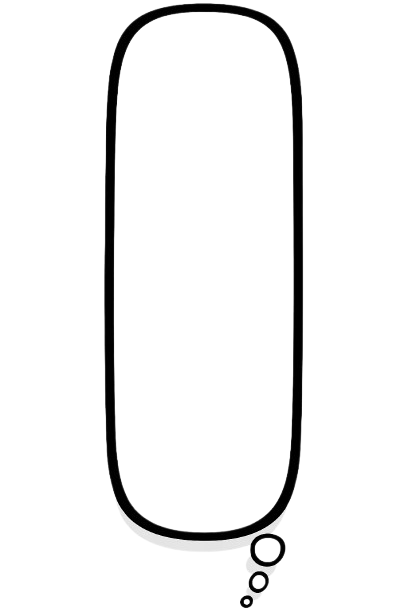
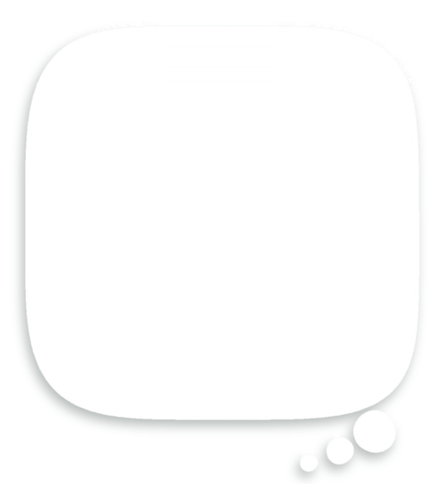
Order bubble: the G1 glass bubble, compact (foods 0.82 apart, same food size), sideways trail, sitting right over the head (owner: ship it). Sprites at 200 ppu drawn at scale 1, placed by OrderSystem.PlaceGlassBubble; foods centred by their drawn part; think-dot insides updated

diff --git a/Assets/Scripts/ItemsAndOrders/OrderSystem.cs b/Assets/Scripts/ItemsAndOrders/OrderSystem.cs
@@ -235,6 +235,7 @@ public class OrderSystem : MonoBehaviour
         if (speechBubble2 != null) speechBubble2.transform.SetParent(s0.root, true);
         if (speechBubble4 != null) speechBubble4.transform.SetParent(s0.root, true);
         if (orderContainer != null) orderContainer.SetParent(s0.root, true);
+        foreach (var b in new[] { speechBubble1, speechBubble2, speechBubble4 }) PlaceGlassBubble(b);
         s0.bubble1 = speechBubble1; s0.bubble2 = speechBubble2; s0.bubble4 = speechBubble4; s0.container = orderContainer;
 
         var s1 = new SlotVisuals { root = new GameObject("OrderSlot1").transform };
@@ -253,6 +254,34 @@ public class OrderSystem : MonoBehaviour
         }
         slots = new[] { s0, s1 };
     }
+
+    /// The G1 glass bubbles (owner, 26 November 2026: "use G1 ... make it more compact, so we can resize the bubble to be
+    /// smaller, but don't change the items image size"; then "the trail under each bubble ... wrap it more horizontal so it
+    /// takes less height, then move bubble closer to the customer"; "order bubbles look good, ship it"). The pictures
+    /// (Assets/Images/1bubble, bubble2, bubble3; painted by Store/bubble_2026-11-26/paint_compact.py ROUND=2) are 200 pixels
+    /// per unit and drawn at scale 1; the body's middle is 0.095 above the picture's middle and sits on the middle of the
+    /// foods (one food every 0.82, itemSpacing in the scene). In the bubble root's space.
+    private static readonly Dictionary<string, Vector3> GlassBubbleSpot = new Dictionary<string, Vector3>
+    {
+        { "1bubble", new Vector3(-1.05f, 2.605f, 0f) }, { "bubble2", new Vector3(-1.05f, 2.195f, 0f) }, { "bubble3", new Vector3(-1.15f, 2.195f, 0f) }
+    };
+    private static void PlaceGlassBubble(GameObject bubble)
+    {
+        var sr = bubble != null ? bubble.GetComponent<SpriteRenderer>() : null;
+        if (sr == null || sr.sprite == null || !GlassBubbleSpot.TryGetValue(sr.sprite.name, out var at)) return;
+        var z = bubble.transform.localPosition.z;
+        bubble.transform.localPosition = new Vector3(at.x, at.y, z);
+        bubble.transform.localScale = Vector3.one;
+        sr.color = Color.white;   // the old line art was tinted grey; the glass is painted in its own colours
+    }
+
+    /// Each food sits in the middle of its spot by its drawn part (the pictures' empty edges are not even): the drawn
+    /// part's middle measured from the picture's middle, in the order container's units
+    private static readonly Dictionary<string, Vector2> FoodCentre = new Dictionary<string, Vector2>
+    {
+        { "Choux", new Vector2(0.01f, 0.04f) }, { "Juice", new Vector2(0.01f, -0.01f) }, { "Bread", new Vector2(0.02f, 0f) },
+        { "Cake", new Vector2(0.01f, -0.01f) }, { "Coffee", new Vector2(0.04f, -0.06f) }, { "Coconut", new Vector2(0.01f, 0.02f) }
+    };
 
     private static GameObject CloneUnder(GameObject original, Transform root)
     {
@@ -444,15 +473,16 @@ public class OrderSystem : MonoBehaviour
         order.thinkDots = root;
     }
 
-    /// The inside of each bubble picture (Assets/Images, 100 pixels per unit; measured inside the black line): its
+    /// The inside of each bubble picture (Assets/Images, 200 pixels per unit since the glass bubbles): its
     /// middle from the picture's middle and its size, in the sprite's own units
     private static bool BubbleInside(string sprite, out Vector3 centre, out Vector2 size)
     {
         switch (sprite)
         {
-            case "1bubble": centre = new Vector3(0.015f, 0.425f, 0f); size = new Vector2(3.29f, 3.05f); return true;
-            case "bubble2": centre = new Vector3(-0.08f, 0.535f, 0f); size = new Vector2(2.18f, 3.57f); return true;
-            case "bubble3": centre = new Vector3(-0.005f, 0.345f, 0f); size = new Vector2(1.79f, 5.19f); return true;
+            // the glass bubbles since 26 November 2026 (inside the rim, around the foods)
+            case "1bubble": centre = new Vector3(0f, 0.095f, 0f); size = new Vector2(1.05f, 1.05f); return true;
+            case "bubble2": centre = new Vector3(0f, 0.095f, 0f); size = new Vector2(1.05f, 1.87f); return true;
+            case "bubble3": centre = new Vector3(0f, 0.095f, 0f); size = new Vector2(1.87f, 1.87f); return true;
         }
         centre = Vector3.zero; size = Vector2.zero; return false;
     }
@@ -551,7 +581,7 @@ public class OrderSystem : MonoBehaviour
 
             // Create the display item
             var displayItem = Instantiate(orderItem.displayPrefab, s.container);
-            displayItem.transform.localPosition = itemPosition;
+            displayItem.transform.localPosition = itemPosition - (FoodCentre.TryGetValue(foodType, out var fc) ? (Vector3)fc : Vector3.zero);
 
             // ice cream: a random cone (one to three scoops, any flavours) shown as its parts
             string variant = null;
